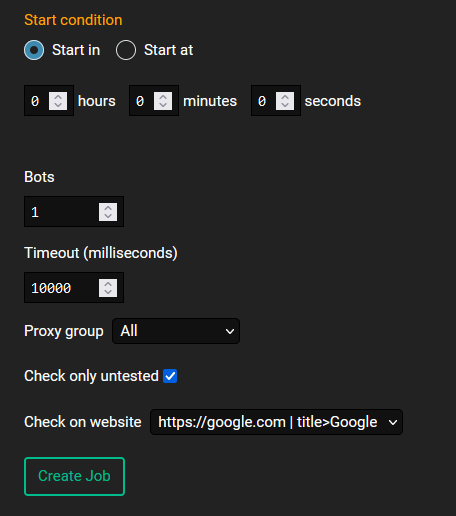
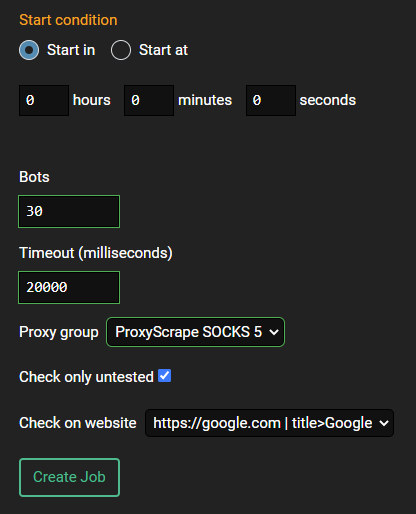
Finished check proxies

diff --git a/docs/proxies/check-proxies.md b/docs/proxies/check-proxies.md
@@ -14,9 +14,9 @@ Then go to the *Jobs* tab of OpenBullet 2 and click on *New*, then select *Proxy
 
 At the top you can *schedule* the start of the job, for example you could set it up to start the job in 2 hours, or at a specific time of a specific day.
 
-Select the number of *bots*, which says how many proxies will be checked at the same time. The more bots you set, the faster the proxies will be checked, but you should note that with a high number of bots, your line will be contended between many concurrent connections, so the resulting ping of proxies may result in a higher value than it actually is.
+Select the number of *bots*, which determines how many proxies will be checked at the same time. The more bots you set, the faster the proxies will be checked, but you should note that with a high number of bots, your line will be contended between many concurrent connections, so the resulting ping of proxies may result in a higher value than it actually is.
 
-The *timeout* is used to set the amount of milliseconds after which a proxy is deemed too slow and marked as *Not Working*.
+The *timeout* is used to set the amount of milliseconds after which a proxy is deemed to be too slow and marked as *Not Working*.
 
 After this, select the *proxy group* that you want to check. You can also select *All* if you want to check all proxies in the database.
 
@@ -27,13 +27,16 @@ You can select which website to test the proxies against. This can be configured
 Finally, click on *Create Job* and you will be brought to the *Proxy Check Job Viewer* page.
 
 ### Running a Proxy Check Job
-TODO: Add image here
-TODO: Write the section
+You can now press start and wait until all proxies have been checked.
+
+![Checking process](/img/proxies/proxy-check-job-viewer.png)
+
+Remember that you can always change the amount of bots to slow down or speed up the process, pause the execution and resume it at a later time or completely stop it.
 
 ### After checking
 After the proxies have been checked, go to the *Proxies* section of OpenBullet 2 and you will see that the *country*, *status*, *ping* and *last checked* fields are now populated.
 
-TODO: Add image here
+![After checking](/img/proxies/after-check.png)
 
 :::info INFO
 If you don't see this information, reload the page by pressing F5 on your keyboard or hitting the refresh button in your browser.
@@ -49,5 +52,5 @@ Some sites block IP addresses that are detected to be from a foreign country, or
 :::info INFO
 To filter the list, click on the small icon next to the column header. You will then be able to set some constraints on the value of the field.
 
-![Settings for proxy check job](/img/proxies/filter.png)
+![Filter](/img/proxies/filter.png)
 :::

diff --git a/docs/proxies/import-proxies.md b/docs/proxies/import-proxies.md
@@ -47,3 +47,8 @@ Note that a proxy does not need to have all these values. For example, you can j
 127.0.0.1:8080
 ```
 :::
+
+### Final result
+This is the result after importing the SOCKS 5 freebies from [proxyscrape.com](https://proxyscrape.com)
+
+![Settings for proxy check job](/img/proxies/untested-proxies.png)
